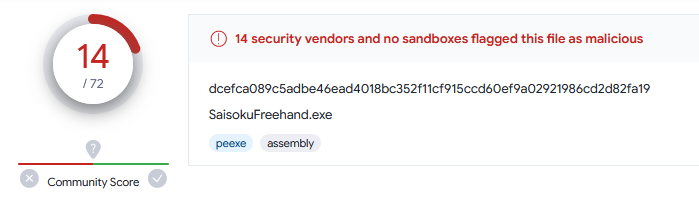
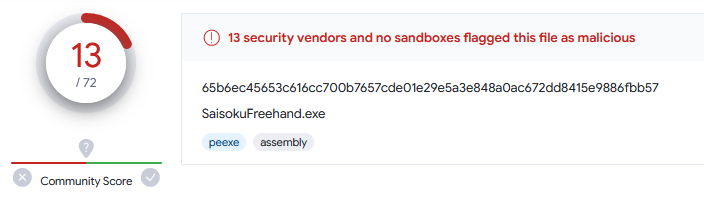
Change README.md

diff --git a/README.md b/README.md
@@ -33,6 +33,6 @@ This software is released under the MIT License.
 
 ## その他
 
-[VirusTotal](https://www.virustotal.com/gui/home/upload)での[スキャン結果](https://www.virustotal.com/gui/file/dcefca089c5adbe46ead4018bc352f11cf915ccd60ef9a02921986cd2d82fa19)です。悪意のあるプログラムと判定されます。故意に作成しているわけではないため、問題ないとは思いますが、原因不明のため実際に問題がある可能性があります。  
+[VirusTotal](https://www.virustotal.com/gui/home/upload)での[スキャン結果](https://www.virustotal.com/gui/file/65b6ec45653c616cc700b7657cde01e29e5a3e848a0ac672dd8415e9886fbb57)です。悪意のあるプログラムと判定されます。故意に作成しているわけではないため、問題ないとは思いますが、原因不明のため実際に問題がある可能性があります。  
 
 ![scan](./html/scan.png)  
